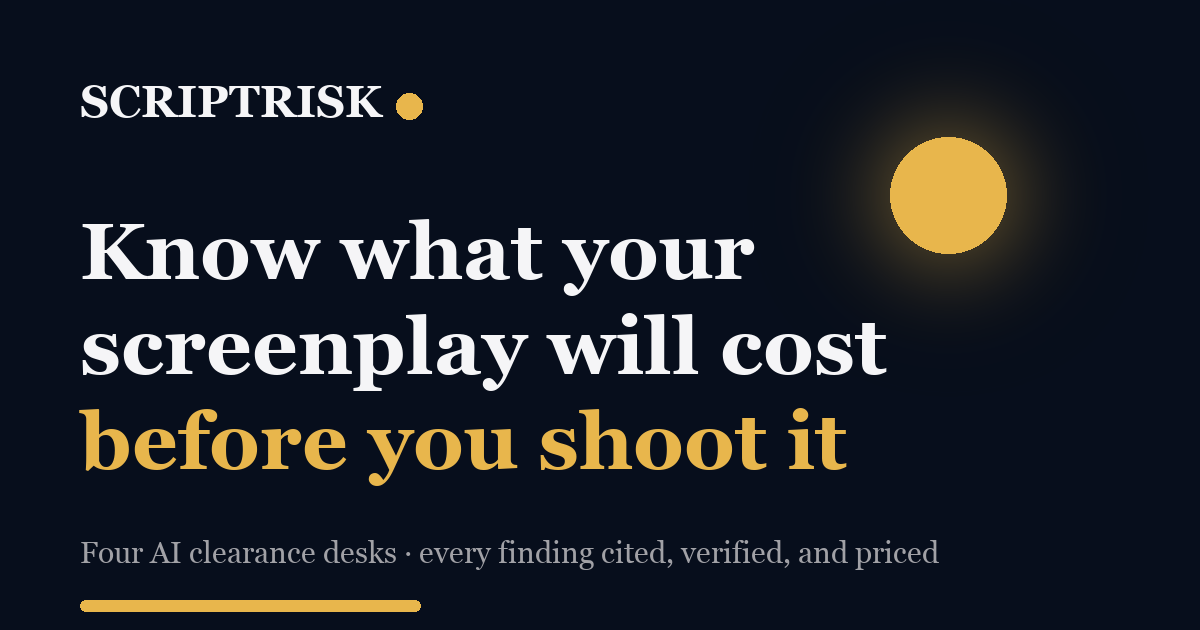
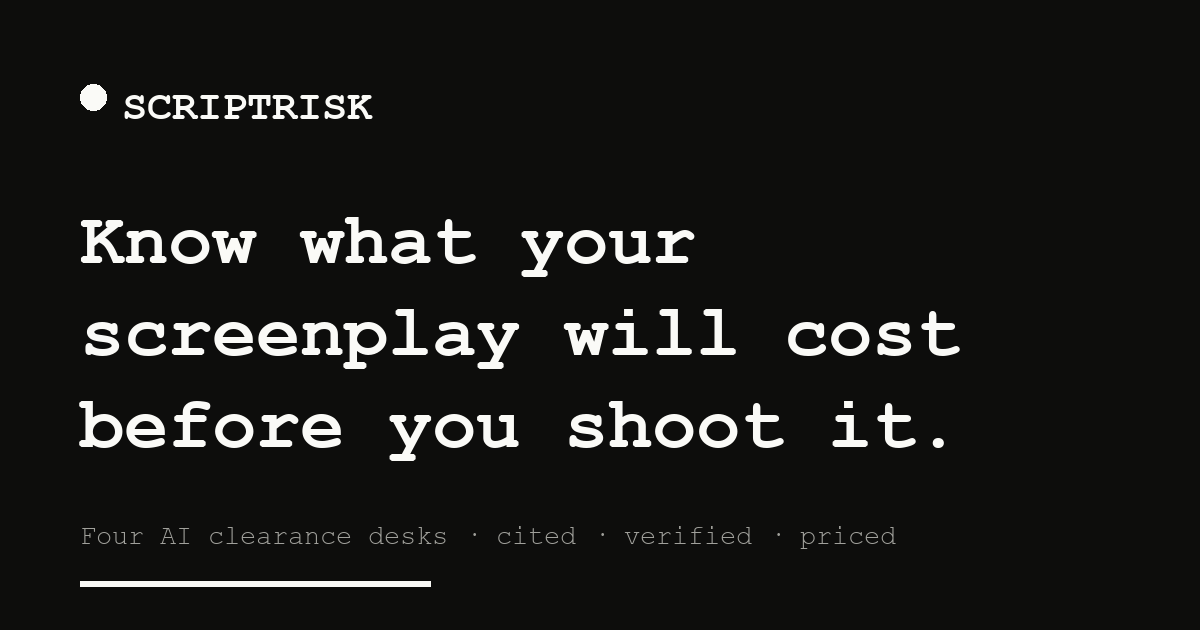
SCRIPT MONO: the typewriter theme (block.xyz-inspired, Courier Prime)
The screenplay's own typeface becomes the site's identity. Courier Prime
(the screenplay font, OFL, vendored woff2) drives display type, labels,
buttons, nav, and numerals; Outfit stays for dense body text. Palette
goes stark: paper white (#fafaf7), ink black, thin rules, sharp 3-4px
corners instead of pills; dark bands are pure black with white courier.
Severity colors and semantic go-green survive — they are information.
Implemented as a token rewrite + an appended SCRIPT MONO override layer
(wins the cascade over legacy component styles); landing page joins;
report-title gradient flattened to solid ink; favicon/apple-touch/og/
Devpost thumbnail regenerated in the mono language.

Claude-Session: https://claude.ai/code/session_01EnQ25PneMiTJ5kah1gP4yv

diff --git a/web/static/site.css b/web/static/site.css
@@ -6,21 +6,21 @@
    Self-contained: system fonts, vendored libs, works offline. */
 
 :root {
-  --bg: #f6f0e1;
-  --band: #eee6d1;
-  --surface: #fffcf4;
-  --ink: #211d15;
-  --ink-2: #544e3e;
-  --ink-3: #8d8570;
-  --line: #e4dbc4;
-  --line-2: #d6ccb4;
-  /* --green is the PRIMARY ACCENT (midnight navy) — historic token name kept so
+  --bg: #fafaf7;
+  --band: #f1f1ec;
+  --surface: #ffffff;
+  --ink: #111110;
+  --ink-2: #3d3d38;
+  --ink-3: #6f6f66;
+  --line: #e4e4dc;
+  --line-2: #c9c9bd;
+  /* --green is the PRIMARY ACCENT (ink black) — historic token name kept so
      every interactive use restyles at once. True "go" green lives in --go. */
-  --green: #1d3f6b;
-  --gold: #c8991f;
-  --gold-tint: #f7edd2;
-  --green-deep: #16334f;
-  --green-tint: #e7edf5;
+  --green: #111110;
+  --gold: #6f6f66;
+  --gold-tint: #f1f1ec;
+  --green-deep: #111110;
+  --green-tint: #ecece4;
   --go: #0e7c4a;
   --go-deep: #0a6239;
   --go-tint: #e6f2e6;
@@ -34,12 +34,12 @@
   --desk-safety: #d97706;
   --desk-territory: #0284c7;
   --sans: "Outfit", -apple-system, BlinkMacSystemFont, "Segoe UI", Roboto, Arial, sans-serif;
-  --display: "Fraunces", Georgia, "Times New Roman", serif;
-  --mono: ui-monospace, "SF Mono", Menlo, Consolas, monospace;
-  --radius: 18px;
-  --radius-sm: 12px;
-  --shadow: 0 2px 12px rgba(0, 0, 0, 0.06);
-  --shadow-lg: 0 12px 40px rgba(0, 0, 0, 0.1);
+  --display: "Courier Prime", "Courier New", Courier, monospace;
+  --mono: "Courier Prime", ui-monospace, "SF Mono", Menlo, Consolas, monospace;
+  --radius: 4px;
+  --radius-sm: 3px;
+  --shadow: none;
+  --shadow-lg: 0 12px 40px rgba(0, 0, 0, 0.08);
 }
 
 * { box-sizing: border-box; }
@@ -73,10 +73,7 @@ main { min-height: 60vh; padding: 56px 0 96px; }
 .home-section .section-title h2,
 .hiw-actions h2,
 .section-head h2 {
-  background: linear-gradient(96deg, var(--green-deep) 25%, var(--gold) 95%);
-  -webkit-background-clip: text;
-  background-clip: text;
-  color: transparent;
+  color: var(--ink);
   width: fit-content;
 }
 .home-section .section-title h2 { margin-left: auto; margin-right: auto; }
@@ -1214,3 +1211,91 @@ tr.bd-sev-BLOCKER { background: rgba(224, 52, 42, 0.045); }
 .notify-chip { margin-top: 4px; align-self: flex-start; border: 1px solid var(--line-2); background: var(--band); color: var(--ink-2); font: inherit; font-size: 13.5px; font-weight: 550; border-radius: 980px; padding: 6px 16px; cursor: pointer; }
 .notify-chip:hover:not(:disabled) { border-color: var(--gold); color: var(--ink); }
 .notify-chip:disabled { color: var(--go-deep); cursor: default; }
+
+
+/* ================= SCRIPT MONO — the block.xyz-inspired typewriter theme.
+   Courier Prime is the screenplay's own typeface; the site now speaks it.
+   Appended last so it wins the cascade over legacy component styles. ================= */
+
+h1, h2 { font-family: var(--display); font-weight: 700; letter-spacing: -0.01em; }
+h1 { font-size: clamp(30px, 4.6vw, 52px); line-height: 1.12; }
+h2 { font-size: clamp(23px, 3vw, 34px); line-height: 1.18; }
+h3 { font-family: var(--display); font-weight: 700; }
+.page-head .kicker, .kicker, .fl-head .label, .strip-head .label, .rn-label,
+.os-kind, .bd-kicker, .blk-label, .fl-list b {
+  font-family: var(--mono); font-weight: 700; letter-spacing: 0.08em; text-transform: uppercase;
+  color: var(--ink-3); font-size: 12px;
+}
+.btn { border-radius: 3px; font-family: var(--mono); font-weight: 700; letter-spacing: 0.04em; text-transform: uppercase; font-size: 13.5px; }
+.btn-primary { background: var(--ink); color: var(--bg); border: 1.5px solid var(--ink); }
+.btn-primary:hover { background: #2c2c28; border-color: #2c2c28; }
+.btn-secondary { background: none; color: var(--ink); border: 1.5px solid var(--ink); }
+.btn-secondary:hover { background: var(--ink); color: var(--bg); }
+.btn-lg { font-size: 14.5px; padding: 14px 28px; }
+a { color: var(--ink); text-decoration: underline; text-underline-offset: 3px; text-decoration-thickness: 1px; }
+.site-nav a, .btn, .brand, .footer-col a, .my-title, .rn-chip { text-decoration: none; }
+.card { border-radius: var(--radius); border: 1px solid var(--line); box-shadow: none; }
+
+.site-header { background: rgba(250, 250, 247, 0.94); border-bottom: 1.5px solid var(--ink); backdrop-filter: blur(12px); }
+.site-header .brand, .site-header .brand-name { color: var(--ink); font-family: var(--mono); letter-spacing: 0.06em; }
+.brand-dot { background: var(--ink); box-shadow: none; }
+.site-nav a { color: var(--ink-2); font-family: var(--mono); font-size: 13.5px; letter-spacing: 0.03em; text-transform: uppercase; border-radius: 3px; }
+.site-nav a:hover { color: var(--ink); background: var(--band); }
+.site-nav a.active { color: var(--bg); background: var(--ink); }
+.site-header .btn-secondary { border-color: var(--ink); color: var(--ink); background: none; }
+.site-header .btn-secondary:hover { background: var(--ink); color: var(--bg); }
+.site-header .btn-primary { background: var(--ink); color: var(--bg); }
+.site-header .auth-me { color: var(--ink); }
+.site-header .auth-me:hover { color: var(--ink-3); }
+.site-header .auth-out { color: var(--ink-3); }
+
+.hero-band { background: #0d0d0c; border-bottom: 1.5px solid var(--ink); }
+.hero-band .hero h1 { color: #fafaf7; }
+.hero-band .hero .sub { color: rgba(250, 250, 247, 0.72); }
+.hero-band .hero-note { color: rgba(250, 250, 247, 0.5); font-family: var(--mono); font-size: 13px; }
+.grad { font-style: normal; background: none; color: #fafaf7; -webkit-text-fill-color: currentColor; text-decoration: underline; text-decoration-thickness: 3px; text-underline-offset: 6px; }
+.hero-band .btn-primary { background: #fafaf7; color: #0d0d0c; border-color: #fafaf7; }
+.hero-band .btn-primary:hover { background: #dcdcd4; border-color: #dcdcd4; }
+.hero-band .btn-secondary { color: #fafaf7; border-color: rgba(250, 250, 247, 0.6); }
+.hero-band .btn-secondary:hover { background: #fafaf7; color: #0d0d0c; }
+.trust-strip span { font-family: var(--mono); font-size: 12px; letter-spacing: 0.03em; }
+
+.carousel { background: #0d0d0c; border-radius: 6px; box-shadow: none; border: 1.5px solid var(--ink); }
+.car-url { font-family: var(--mono); }
+.car-arrow { background: none; border: 1.5px solid rgba(250, 250, 247, 0.5); color: #fafaf7; border-radius: 3px; }
+.car-arrow:hover { background: #fafaf7; border-color: #fafaf7; color: #0d0d0c; }
+.car-dot.active { background: #fafaf7; }
+.car-caption b { font-family: var(--mono); }
+
+.site-footer { background: #0d0d0c; }
+.site-footer .brand-name, .site-footer h4 { font-family: var(--mono); letter-spacing: 0.06em; color: #fafaf7; }
+.footer-col a { font-family: var(--mono); font-size: 13px; }
+
+.fl-stat b, .score b, .land-stats b, .counter-strip b, .os-desk b, .drivers-total,
+.tally b, .pct, .comp-d, .rts-num { font-family: var(--mono); }
+.fl-unverified, .sev-chip, .rt-pin b, .wi-r, .rating-badge, .my-running, .chip { font-family: var(--mono); letter-spacing: 0.04em; }
+.sev-chip, .rating-badge, .rt-pin, .flag-ref, .rn-chip, .notify-chip, .follow-chip,
+.detail-toggle, .cite-toggle, .fl-list-items span, .fl-elem, .wi-comp, .chip-desk { border-radius: 3px; }
+.firstlook { border-top: 3px solid var(--ink); }
+.fl-stat.fl-warn b { color: var(--high); }
+.fl-unverified { color: var(--ink); background: var(--band); border: 1px solid var(--line-2); }
+
+.os-body { background: #0d0d0c; }
+.os-page { background: #111110; border: 1px solid rgba(255, 255, 255, 0.14); border-radius: 6px; }
+.os-brand, .os-kind { font-family: var(--mono); }
+.os-dot { background: #fafaf7; box-shadow: none; }
+.os-kind { color: #fafaf7; }
+.os-title { font-family: var(--display); }
+.bd-body { background: #232320; }
+.bd-brand { font-family: var(--mono); }
+.bd-dot { background: var(--ink); }
+
+.now-bar { border-left: 3px solid var(--ink); }
+.dot-system { background: var(--ink); }
+.rn-chip.active { background: var(--ink); color: var(--bg); }
+.rn-chip.active b { background: rgba(255, 255, 255, 0.25); }
+.pbar-fill { background: var(--ink); }
+.g-dot { fill: var(--ink); }
+.g-edge.g-hot { stroke: var(--ink); }
+.g-label { font-family: var(--mono); font-size: 13px; }
+.g-sub { font-family: var(--mono); }

diff --git a/web/static/landing.css b/web/static/landing.css
@@ -103,3 +103,17 @@
 @media (prefers-reduced-motion: reduce) {
   .brand-dot.big { animation: none !important; }
 }
+
+
+/* SCRIPT MONO overrides */
+.landing-body { background: #0d0d0c; font-family: "Outfit", sans-serif; }
+.brand.light, .brand-name { font-family: "Courier Prime", monospace; letter-spacing: 0.06em; }
+.brand-dot.big { background: #fafaf7; animation: none; box-shadow: none; }
+.eyebrow { font-family: "Courier Prime", monospace; text-transform: uppercase; letter-spacing: 0.1em; font-size: 13px; color: rgba(250, 250, 247, 0.55); }
+.landing h1 { font-family: "Courier Prime", monospace; font-weight: 700; letter-spacing: -0.01em; font-size: clamp(34px, 5.6vw, 68px); }
+.grad-text { background: none; color: #fafaf7; -webkit-text-fill-color: currentColor; font-style: normal; text-decoration: underline; text-decoration-thickness: 4px; text-underline-offset: 8px; }
+.btn-glow { background: #fafaf7; color: #0d0d0c; border-radius: 3px; font-family: "Courier Prime", monospace; font-weight: 700; text-transform: uppercase; letter-spacing: 0.04em; font-size: 15px; }
+.btn-glow:hover { background: #dcdcd4; }
+.btn-ghost { color: #fafaf7; font-family: "Courier Prime", monospace; text-transform: uppercase; letter-spacing: 0.04em; font-size: 14px; }
+.land-stats b { font-family: "Courier Prime", monospace; }
+.desk-pill { font-family: "Courier Prime", monospace; font-size: 13px; }
